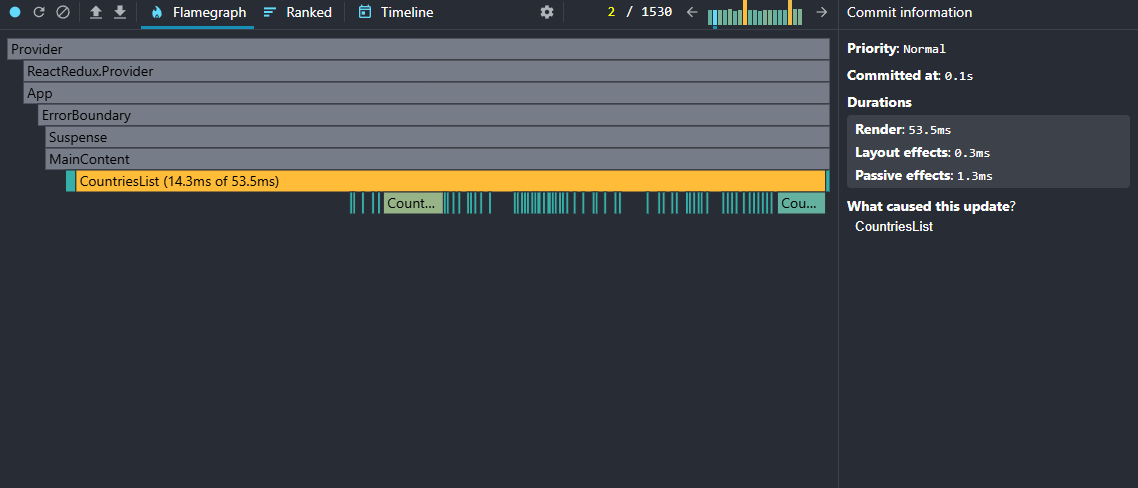
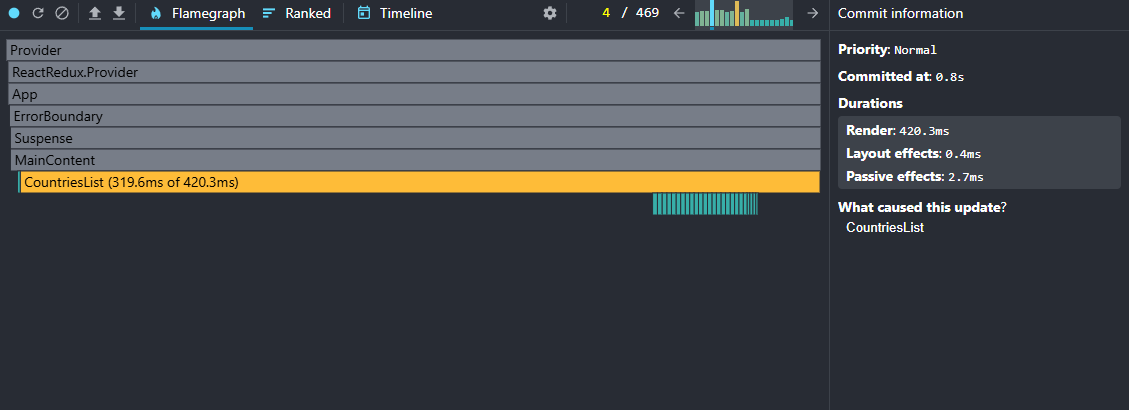
feat: add metrics to searching

Changed region(s): [[0.0, 0.0, 0.899, 0.5854]]

diff --git a/README.md b/README.md
@@ -6,12 +6,12 @@ Profiling done by using React DevTools Profiler.
 
 Shown difference of such interaction:
 
-- Sorting +
+- Sorting
   - by population
   - by country name
 - Change year selection
-- Filtering by region +
-- Searching countries +
+- Filtering by region
+- Searching countries
 - Opening whole table of county +
 - Add new column
 
@@ -165,11 +165,11 @@ Profiler not capture interactions so only Commit and Render analyzed
 
 #### Commit Duration:
 
-0.1s
+0.8s
 
 #### Render Duration:
 
-53.5ms
+420.3ms
 
 #### Interactions:
 
@@ -233,6 +233,30 @@ Profiler not capture interactions so only Commit and Render analyzed
 
 ---
 
+### Filtering by region
+
+#### Commit Duration:
+
+1.7s
+
+#### Render Duration:
+
+20.3ms
+
+#### Interactions:
+
+Profiler not capture interactions so only Commit and Render analyzed
+
+#### Flame Graph:
+
+![alt text](./screen-to-report/image-22.png)
+
+#### Ranked Chart:
+
+![alt text](./screen-to-report/image-23.png)
+
+---
+
 ### Sorting by population
 
 #### Commit Duration:
@@ -278,3 +302,29 @@ Profiler not capture interactions so only Commit and Render analyzed
 #### Ranked Chart:
 
 ![alt text](./screen-to-report/image-21.png)
+
+---
+
+### Searching countries
+
+#### Commit Duration:
+
+1.8s
+
+#### Render Duration:
+
+71.6ms
+
+#### Interactions:
+
+Profiler not capture interactions so only Commit and Render analyzed
+
+#### Flame Graph:
+
+![alt text](./screen-to-report/image-12.png)
+
+#### Ranked Chart:
+
+![alt text](./screen-to-report/image-13.png)
+
+---
